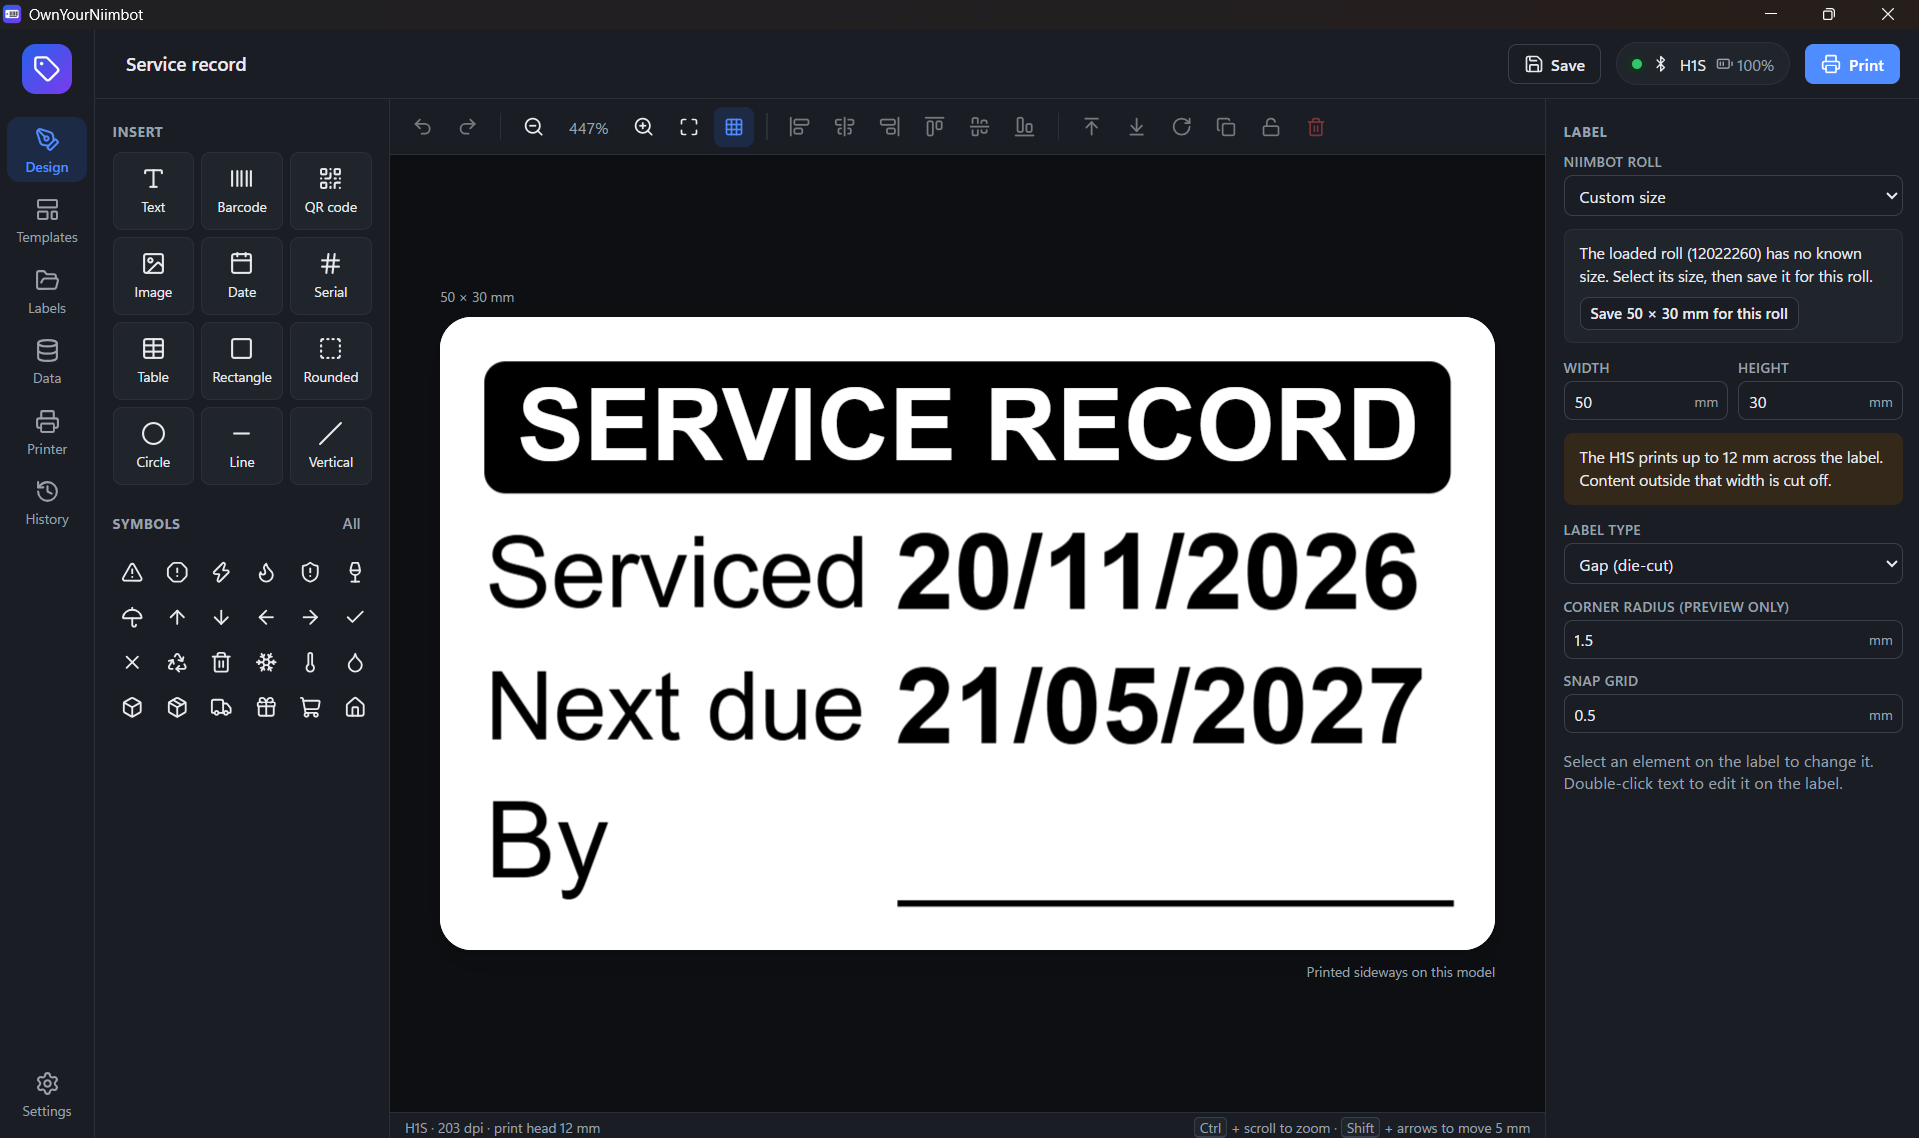
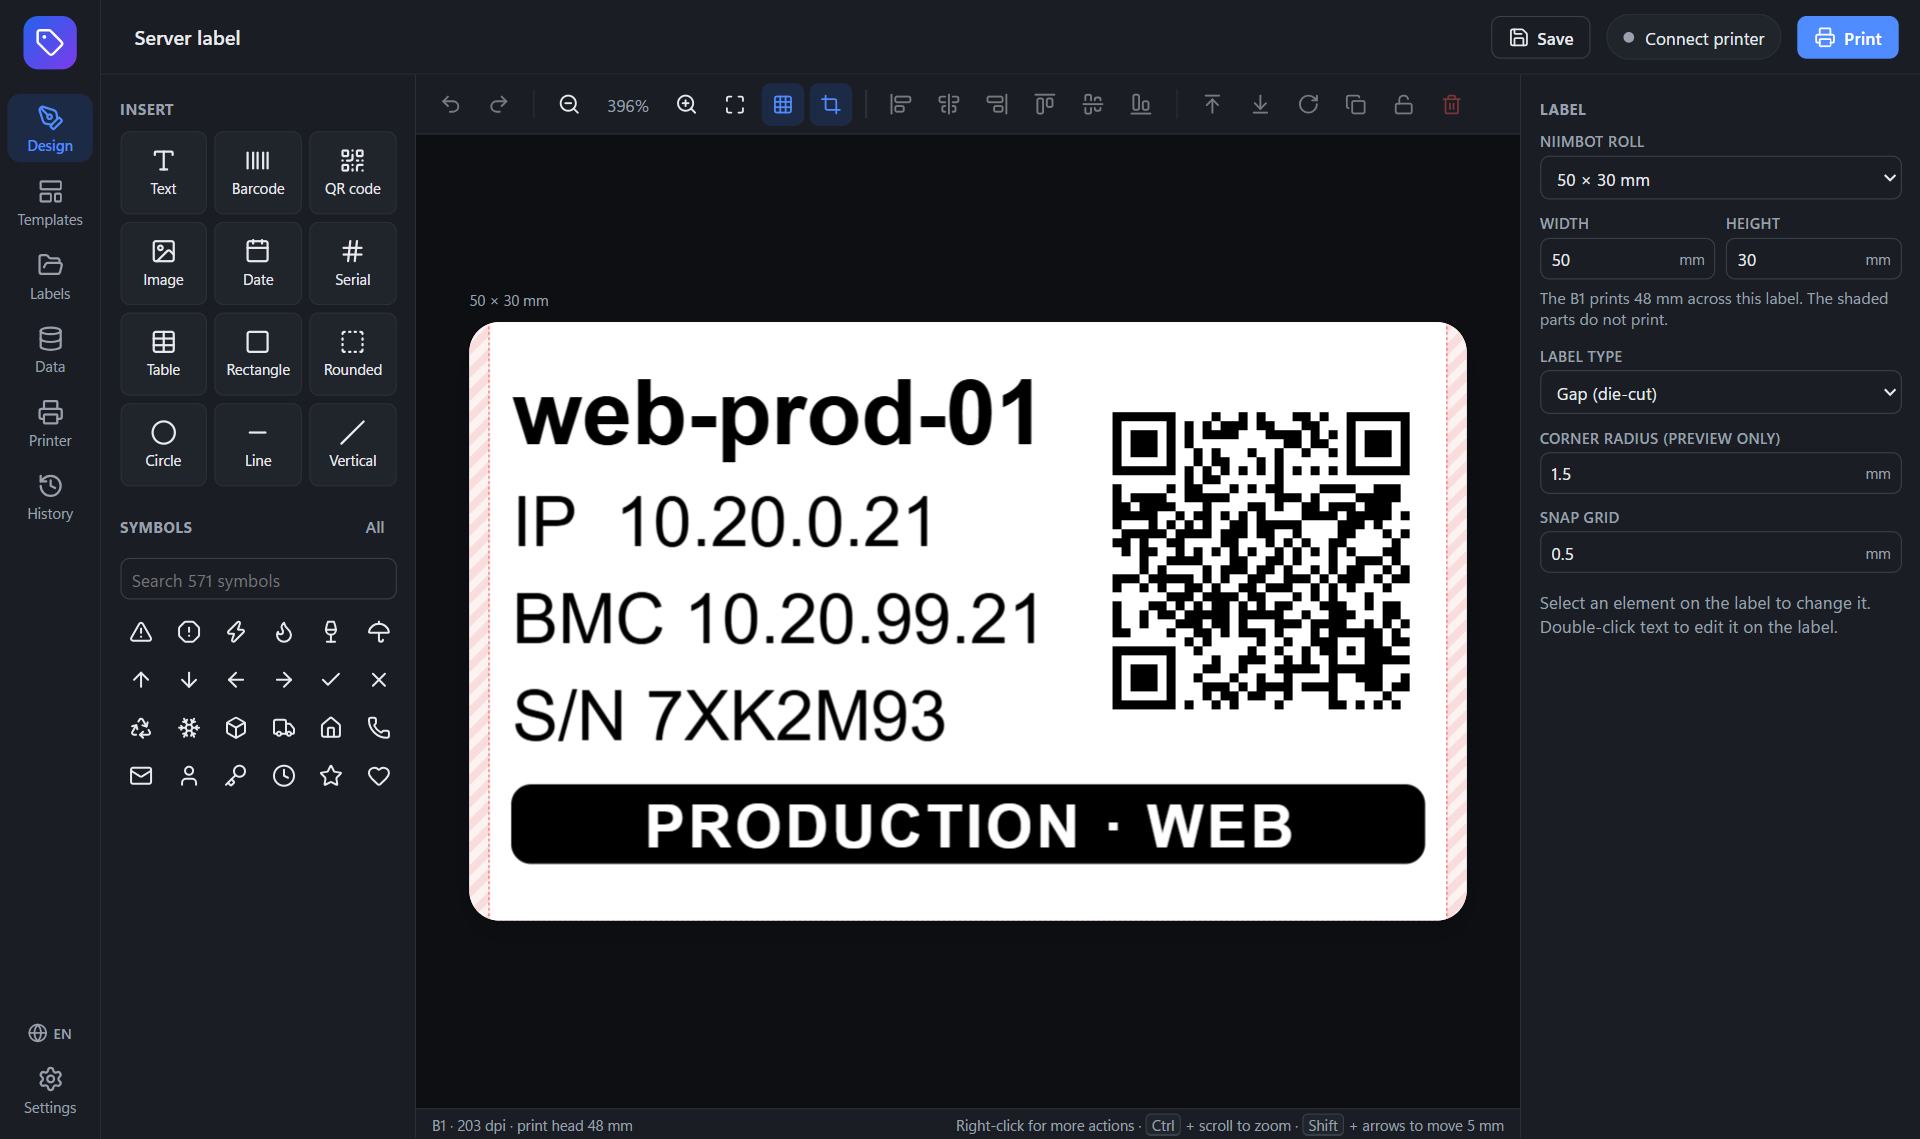
Update the design view screenshot in the README

diff --git a/README.md b/README.md
@@ -4,7 +4,7 @@
 
 A free desktop app to design and print labels on NIIMBOT label printers (also searched for as Nimmbot or Niimbot printers). It runs on Windows, macOS and Linux, and connects to the printer over Bluetooth or a USB cable. No account, no cloud and no internet connection are needed.
 
-![The design view with a 50 × 30 mm service record label. The insert tools and symbols are on the left. The label size, roll and type are on the right.](docs/images/editor.png)
+![The design view with a 50 × 30 mm server label with a hostname, IP addresses, a serial number and a QR code. The insert tools and symbols are on the left. The roll, the label size and the label type are on the right.](docs/images/editor.png)
 
 ## Features
 
